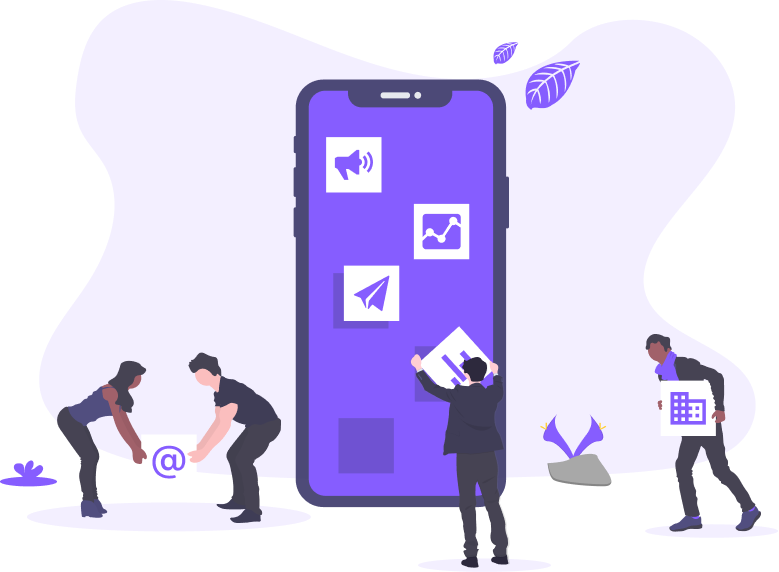
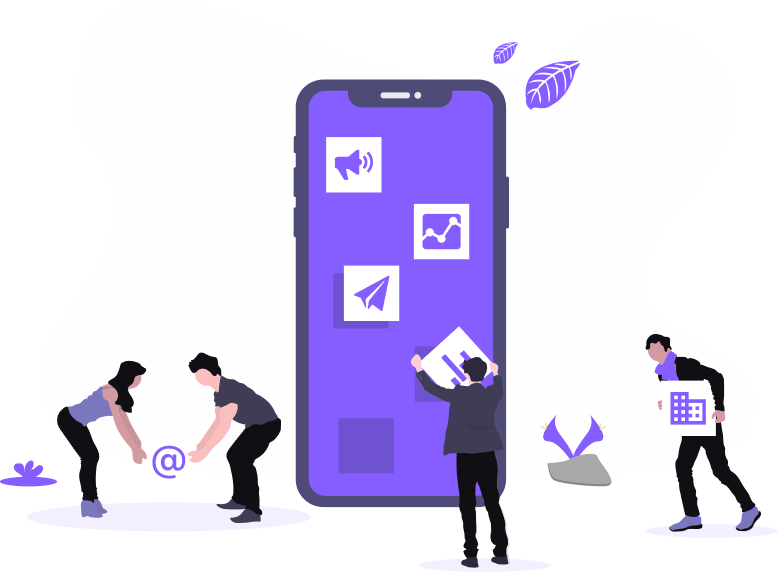
Landing page dark!

diff --git a/src/styles/home.scss b/src/styles/home.scss
@@ -1,10 +1,10 @@
-@import url("https://fonts.googleapis.com/css2?family=Montserrat:wght@200;300;400;500&family=Roboto:wght@300;400;500&display=swap");
+@import url('https://fonts.googleapis.com/css2?family=Roboto+Slab:wght@100;400;500;700&display=swap');
 
 * {
   margin: 0;
   padding: 0;
   box-sizing: border-box;
-  font-family: "Montserrat", sans-serif;
+  font-family: 'Roboto Slab', serif;
 }
 
 /* Home page styling */
@@ -17,12 +17,9 @@
   flex-direction: column;
   justify-content: center;
   align-items: center;
-  // background-color: rgb(203, 255, 220);
+  background-color: #191825;
 
-  background: url("../images/bg1.jpg");
-  background-size: cover;
-
-
+  font-family: 'Roboto Slab', serif;
   .container {
     width: 100vw;
     display: flex;
@@ -49,19 +46,19 @@
           display: block;
         }
         .tagLine {
-          font-family: "Roboto", sans-serif;
+          font-family: 'Roboto Slab', serif;
+          color: #FFFFFF;
+          font-size: 40px;
           span {
             font-size: 40px;
-            background: -webkit-linear-gradient(
-              rgb(199, 164, 255),
-              rgb(118, 19, 171)
-            );
+            background: -webkit-linear-gradient(#e384ff, #865dff);
             -webkit-background-clip: text;
             -webkit-text-fill-color: transparent;
           }
         }
         h3 {
-          color: #767676;
+          font-family: 'Roboto Slab', serif;
+          color: #DADADA;
         }
       }
 
@@ -69,11 +66,12 @@
         // border: 2px solid red;
 
         button {
+          font-family: 'Roboto Slab', serif;
           cursor: pointer;
           font-size: 20px;
           font-weight: 700;
           color: white;
-          background-color: #865dff;
+          background-color: #865DFF;
           padding: 15px 25px;
           border-radius: 6px;
         }
@@ -89,11 +87,16 @@
     gap: 50px;
   }
   .mainData {
+    width: 100%;
     gap: 50px;
     .Logo {
       display: none;
     }
+
     .content {
+      h3{
+        display: none;
+      }
       align-items: center;
     }
     align-items: center;

diff --git a/src/pages/Home.js b/src/pages/Home.js
@@ -20,7 +20,7 @@ const Home = () => {
 
             <div className="content">
               <h1 className="tagLine">
-                Our Innovative <br /> <span> File Transfer System</span> <br />
+                Our Innovative <span> File Transfer System</span> <br />
                 Streamlines your Workflow
               </h1>
               <h3>

diff --git a/src/styles/GettingStarted.scss b/src/styles/GettingStarted.scss
@@ -14,8 +14,7 @@
   flex-direction: column;
   justify-content: center;
   align-items: center;
-  background: url("../images/modern-geometric-background.jpg");
-  background-size: cover;
+  background-color: rgb(31, 28, 71);
   
   .CreateRoomcontainer {
     width: 80vw;
